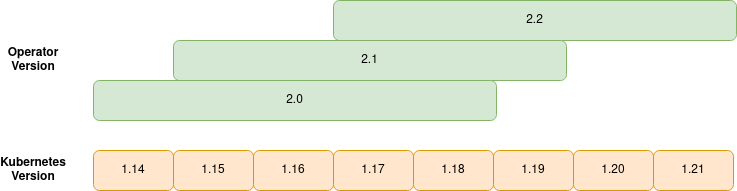
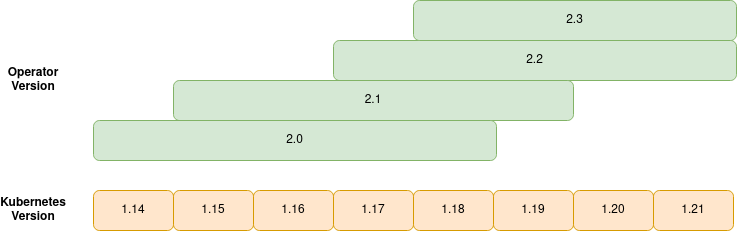
K8S-2246: Update Lower Platform Limits
1.18 is the new lower limit, this is due to CRD sets/uniqueness only
being a 1.18+ feature on GKE, the others are all fine on 1.17 :/

diff --git a/pkg/config/util.go b/pkg/config/util.go
@@ -304,8 +304,8 @@ func checkAPIVersions(flags *genericclioptions.ConfigFlags) error {
 	}
 
 	// Note: these should be updated every release.
-	technicalLowerBound := &version.Info{Major: "1", Minor: "17", GitVersion: "v1.17.0"}
-	supportedLowerBound := &version.Info{Major: "1", Minor: "17", GitVersion: "v1.17.0"}
+	technicalLowerBound := &version.Info{Major: "1", Minor: "18", GitVersion: "v1.18.0"}
+	supportedLowerBound := &version.Info{Major: "1", Minor: "18", GitVersion: "v1.18.0"}
 	supportedUpperBound := &version.Info{Major: "1", Minor: "21", GitVersion: "v1.21.0"}
 
 	// You shall not pass!!  AKA don't waste our time.
